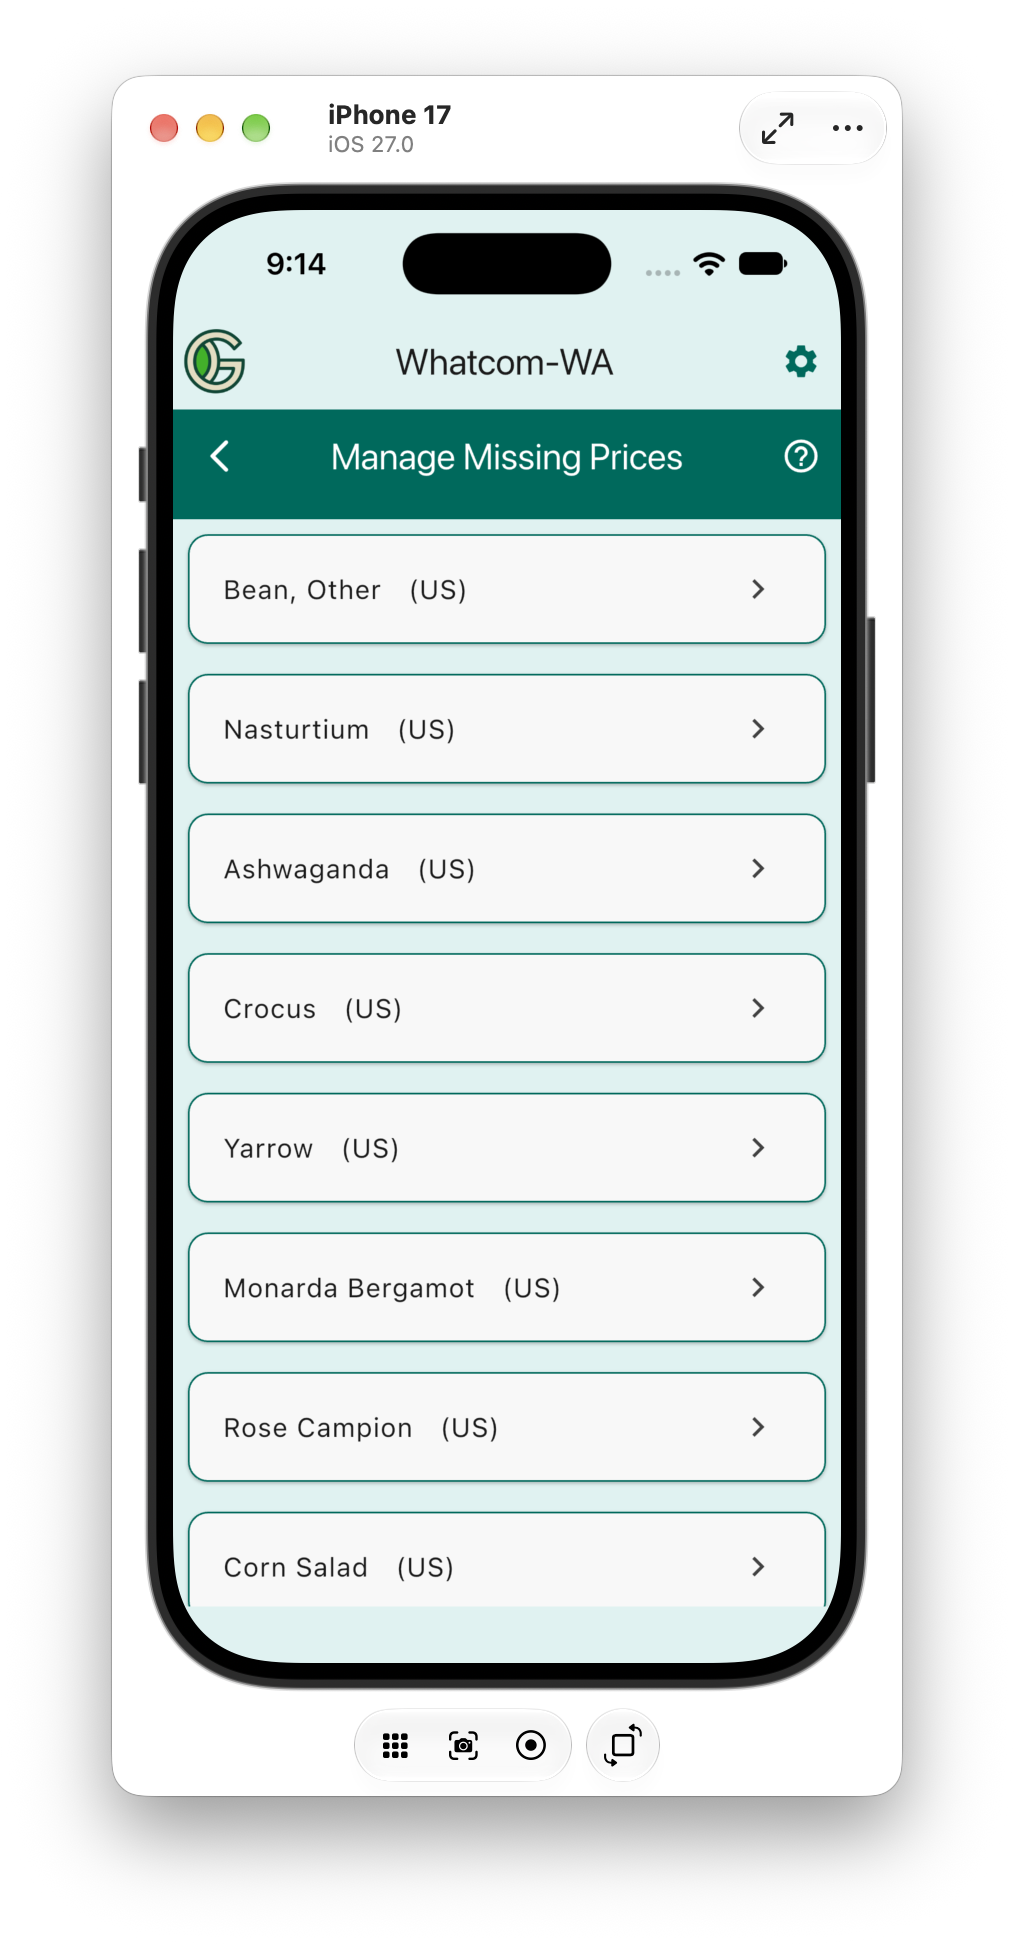
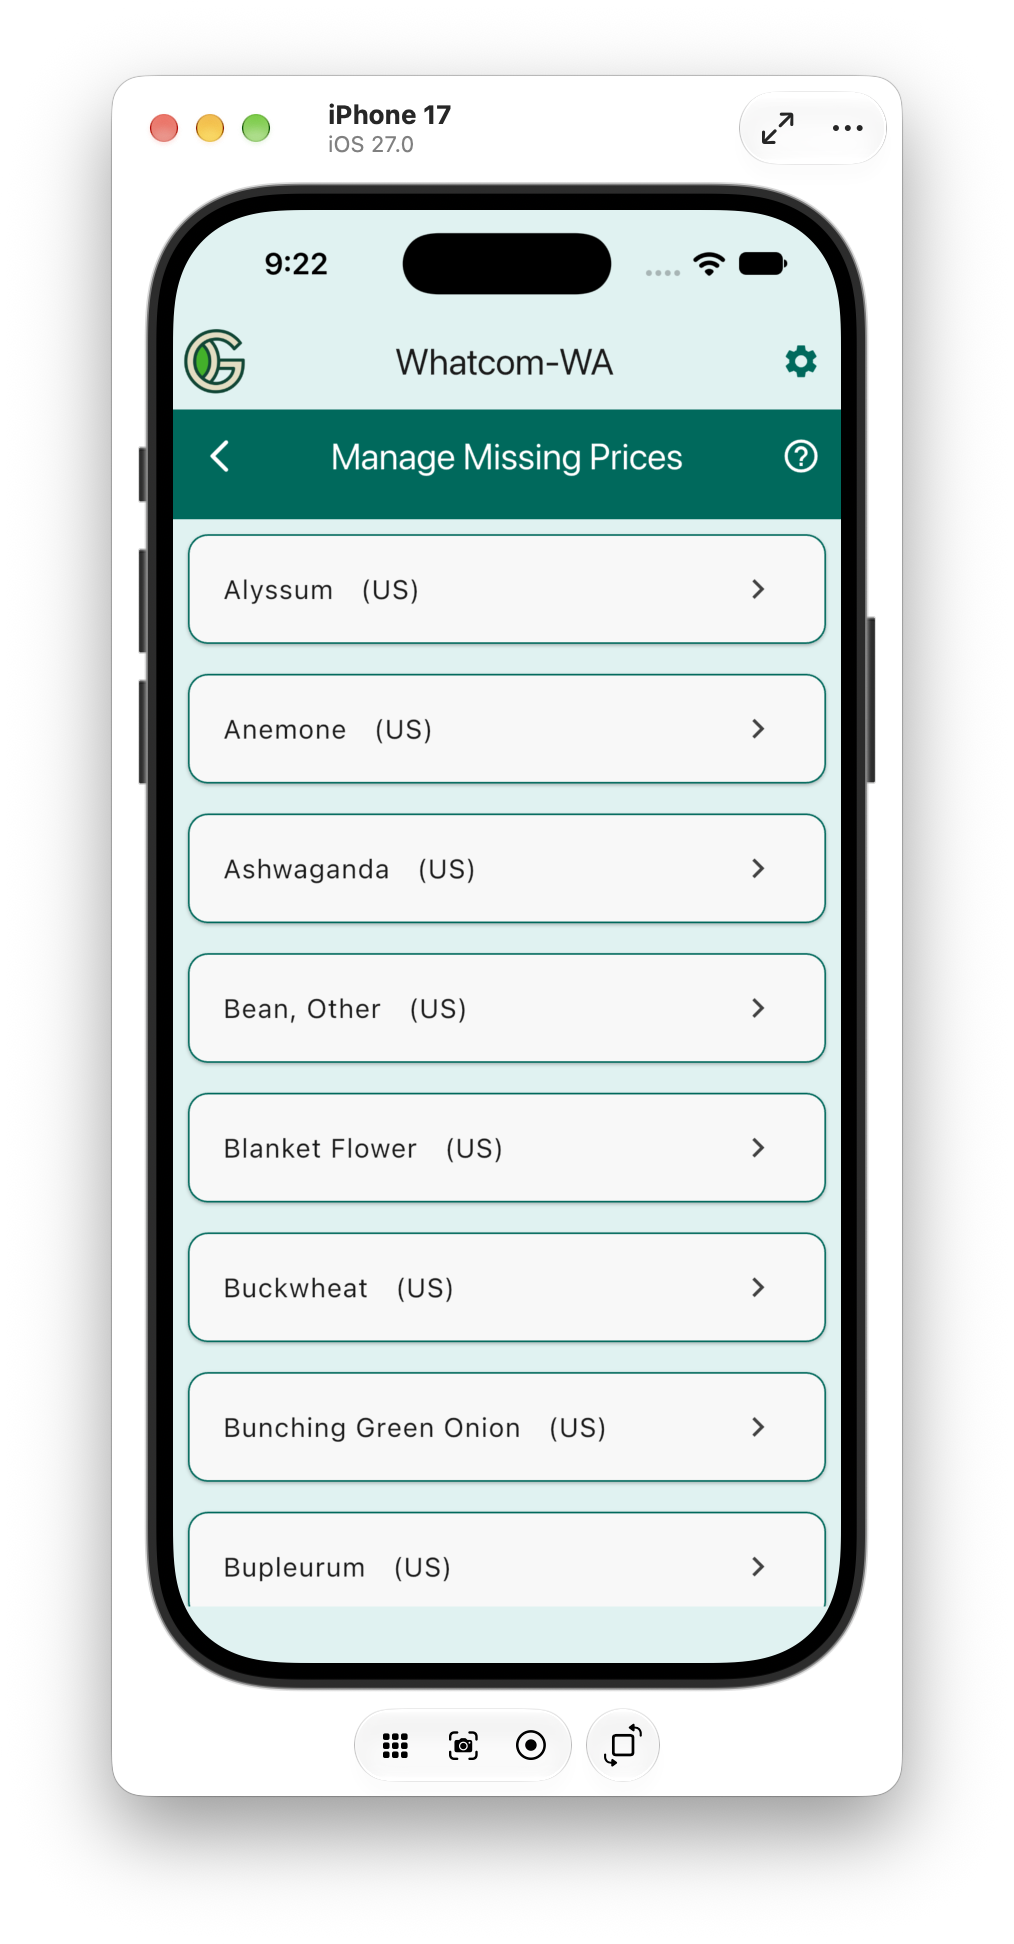
checkpoint
Took 12 minutes

diff --git a/sidebars.js b/sidebars.js
@@ -509,6 +509,7 @@ const sidebars = {
               'admin-guide/feature-management/prices/update',
               'admin-guide/feature-management/prices/delete',
               'admin-guide/feature-management/prices/missing',
+              'admin-guide/feature-management/prices/create_missing',
             ]
           },
           {

diff --git a/docs/admin-guide/feature-management/prices/create_missing.md b/docs/admin-guide/feature-management/prices/create_missing.md
@@ -1,0 +1,14 @@
+---
+hide_table_of_contents: true
+title: Create Missing Price
+---
+
+# Create Missing Price
+
+<img width="300" src="/img/admin-guide/feature-management/prices/create_missing.png"/>
+
+The country, crop, and year fields are set based upon the missing price. The price field is an integer field that represents the price in cents. For example, if the price is $1.50, enter `150` in the price field. After filling out the form, click the `Submit` button to create the new price.
+
+You can indicate that the crop is priceless by clicking the `Is this crop priceless?` checkbox. 
+
+If you want to change a priceless crop back to a regular crop, go to the [Manage Existing Prices](manage_existing.md) screen and update the price.

diff --git a/docs/admin-guide/feature-management/prices/missing.md b/docs/admin-guide/feature-management/prices/missing.md
@@ -7,4 +7,4 @@ title: Missing Prices
 
 <img width="300" src="/img/admin-guide/feature-management/prices/missing_prices.png"/>
 
-The Missing Prices page shows the crops with plantings with outcomes that have a quantity, but no price. You can create a new price for any of these crops by clicking on the crop name.
+The Missing Prices page shows the crops with plantings with outcomes that have a quantity, but no price. You can [create a new price](create_missing.md) for any of these crops by clicking on the crop name.
